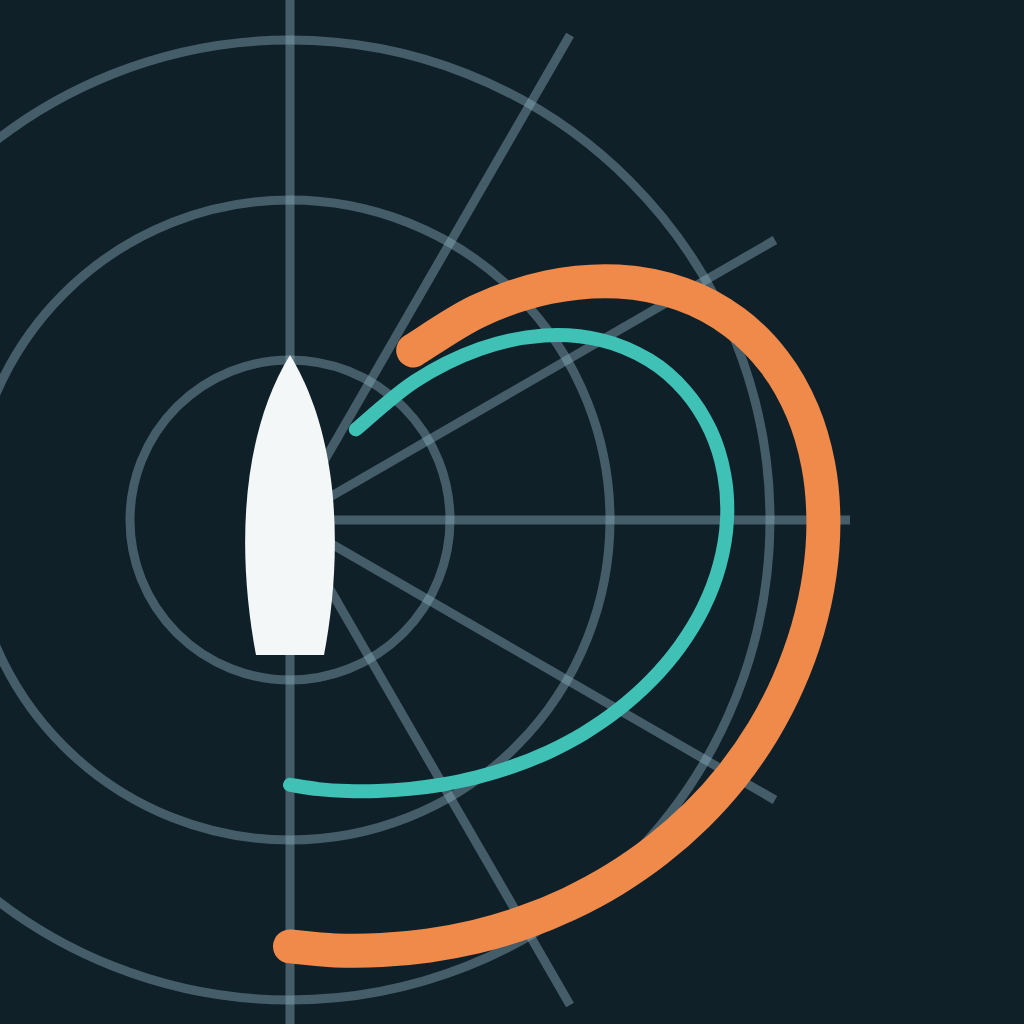
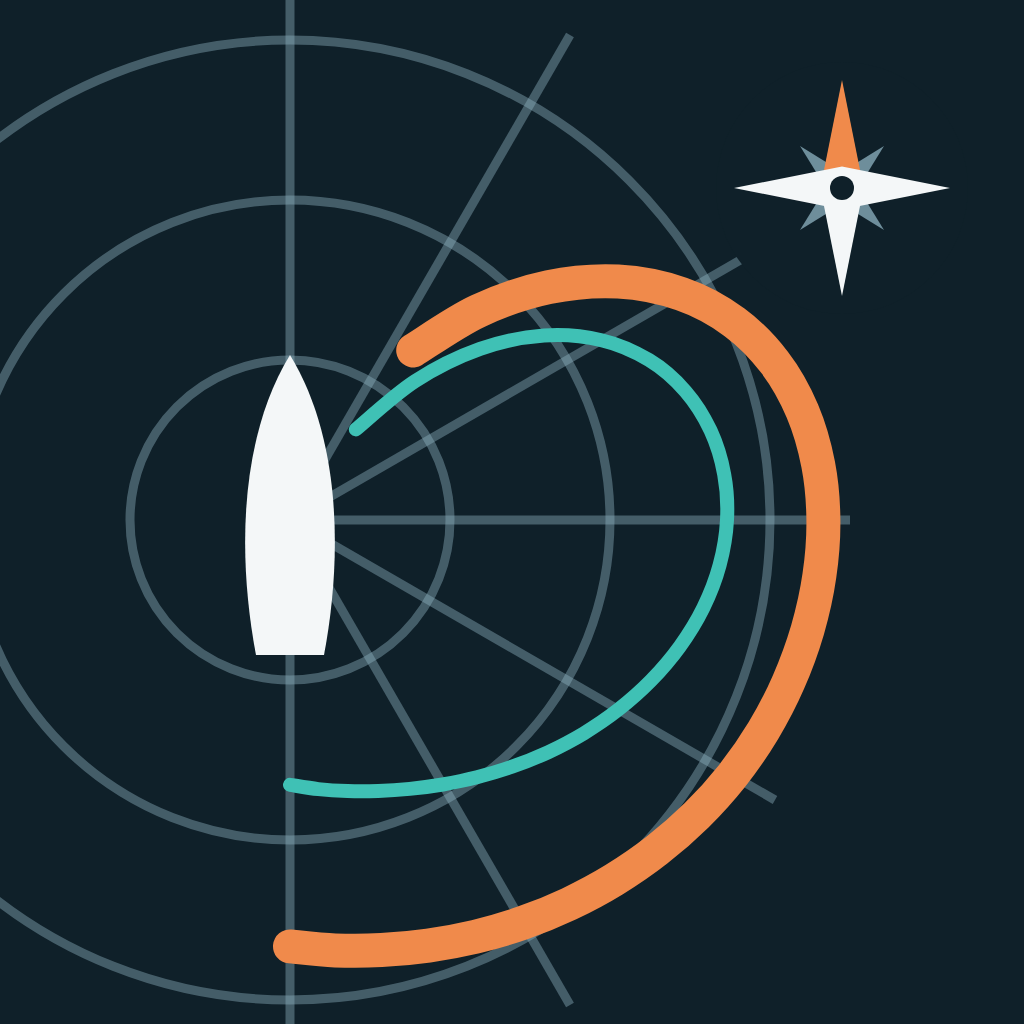
Icône : rose des vents ajoutée en haut à droite (A22)

Changed region(s): [[0.7188, 0.0938, 0.9375, 0.2812], [0.7188, 0.2188, 0.75, 0.25]]

diff --git a/design/LISEZMOI.md b/design/LISEZMOI.md
@@ -9,4 +9,4 @@ Sources de l'artifact « O'Tacquet en navigation » (canvas Design de claude.ai,
 Format .dc.html propre à l'éditeur Design de claude.ai : à lire comme référence visuelle et de données (valeurs du moteur V9.8 par 15 nds, eau plate), pas à servir tel quel.
 
 ## Icône
-`icone/icone.svg` (source) et `icone/icone-1024.png` (copiée dans `ios/App/App/Assets.xcassets/AppIcon.appiconset/`) : polaire d’O’Tacquet calculée par le moteur du simulateur (14 nds en orange, 8 nds en bleu-vert), lissée, voilier vu de dessus à l’origine, grille du diagramme polaire.
+`icone/icone.svg` (source) et `icone/icone-1024.png` (copiée dans `ios/App/App/Assets.xcassets/AppIcon.appiconset/`) : polaire d’O’Tacquet calculée par le moteur du simulateur (14 nds en orange, 8 nds en bleu-vert), lissée, voilier vu de dessus à l’origine, grille du diagramme polaire, rose des vents (nord en orange) en haut à droite.
